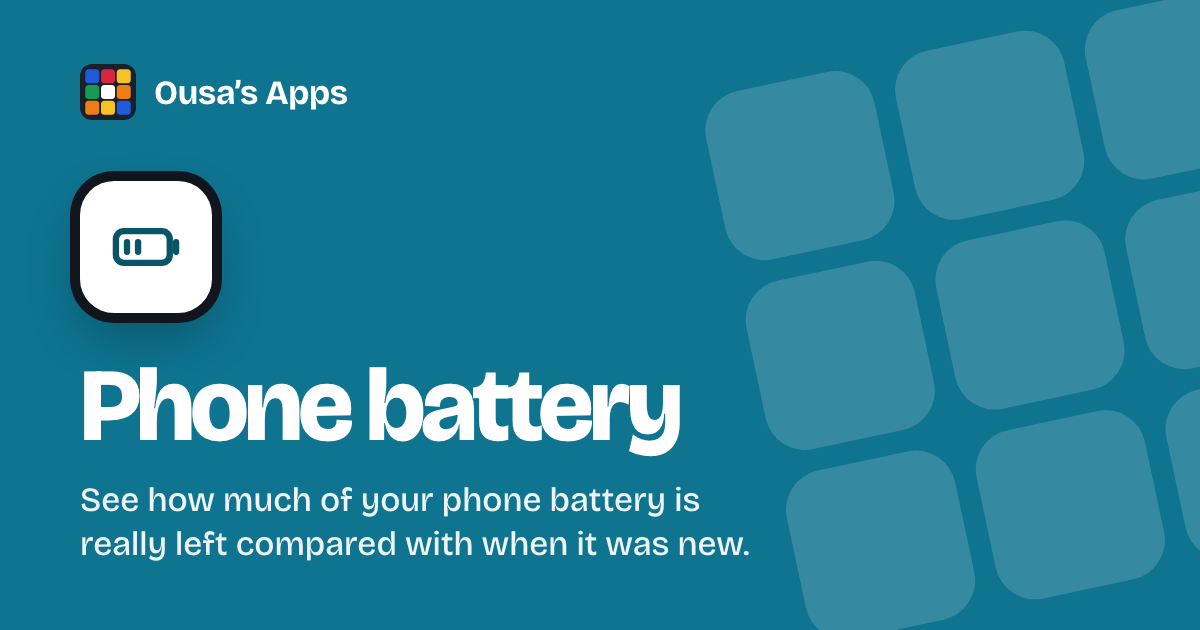
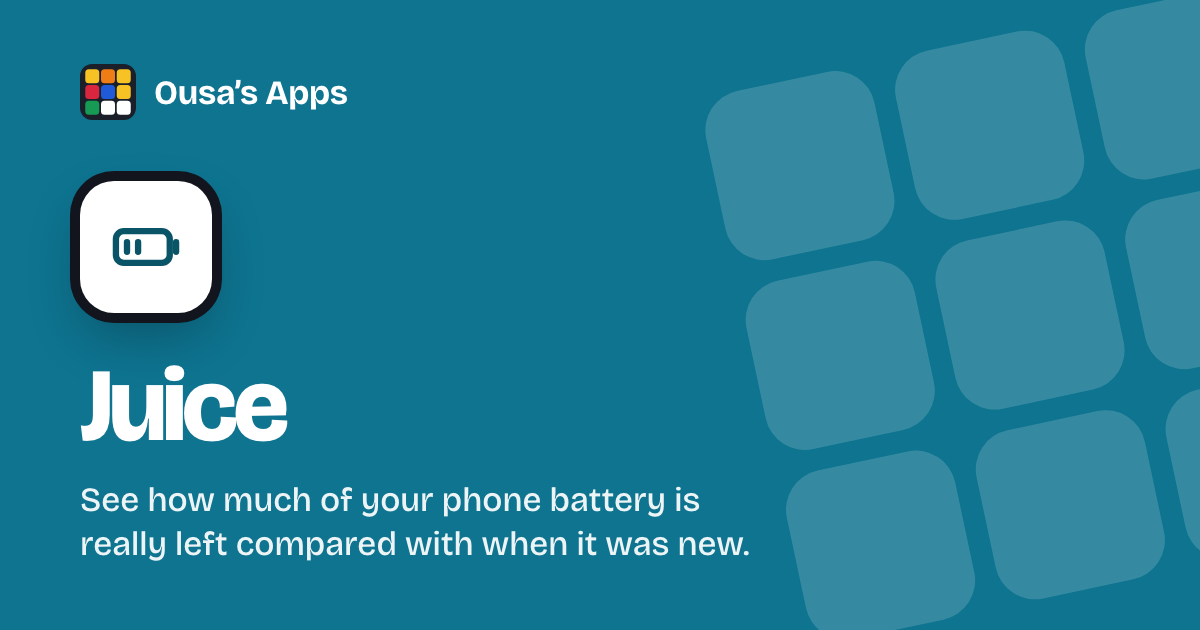
Lead each page's SEO title with the app's new name, and redraw the share images

Changed region(s): [[0.0617, 0.573, 0.5858, 0.7238], [0.0617, 0.0905, 0.1233, 0.181]]

diff --git a/app/utils/tools.ts b/app/utils/tools.ts
@@ -41,7 +41,7 @@ export const TOOLS: Tool[] = [
     summary: 'Turn a link or text into a QR code you can download.',
     color: 'var(--blue)',
     icon: 'qr',
-    seoTitle: 'Free QR code generator with logo',
+    seoTitle: 'Scan Me: free QR code generator with logo',
     description: 'Make a QR code for any link or text, add your logo, colours and a frame, check it scans, then download it as PNG or SVG. Free, no sign-up.'
   },
   {
@@ -50,7 +50,7 @@ export const TOOLS: Tool[] = [
     summary: 'Check a Cambodian number and see its network.',
     color: 'var(--red)',
     icon: 'phone',
-    seoTitle: 'Cambodian phone number checker',
+    seoTitle: 'Who’s Calling: Cambodian phone number checker',
     description: 'Check any Cambodian phone number: see if it’s Smart, Cellcard, Metfone or a landline, catch missing digits, and format it for WhatsApp or Telegram.',
     demo: true
   },
@@ -61,7 +61,7 @@ export const TOOLS: Tool[] = [
     color: 'var(--orange)',
     buttonColor: 'var(--orange-btn)',
     icon: 'compress',
-    seoTitle: 'Compress images and PDFs in your browser',
+    seoTitle: 'Squeeze: compress images and PDFs in your browser',
     description: 'Make JPG, PNG, WebP and PDF files smaller without uploading them. Keep PDF text sharp or shrink scans, compare before and after, and download.',
     demo: true
   },
@@ -72,7 +72,7 @@ export const TOOLS: Tool[] = [
     color: 'var(--yellow)',
     onColor: '#1b1f2a',
     icon: 'case',
-    seoTitle: 'Text case converter and text compare',
+    seoTitle: 'Wordsmith: text case converter and text compare',
     description: 'Change text to lowercase, UPPERCASE, Title Case or Sentence case, or compare two texts side by side and see every word added, removed or changed.',
     demo: true
   },
@@ -83,7 +83,7 @@ export const TOOLS: Tool[] = [
     color: 'var(--green)',
     buttonColor: 'var(--green-btn)',
     icon: 'password',
-    seoTitle: 'Strong password generator and saver',
+    seoTitle: 'Keyring: strong password generator and saver',
     description: 'Generate strong passwords, see how long they’d take to crack, and save them in an encrypted vault that only you can unlock.'
   },
   {
@@ -93,7 +93,7 @@ export const TOOLS: Tool[] = [
     color: 'var(--teal)',
     buttonColor: 'var(--teal-btn)',
     icon: 'exchange',
-    seoTitle: 'KHR to USD exchange rate calculator',
+    seoTitle: 'Riel Deal: KHR to USD exchange rate calculator',
     description: 'See today’s riel to dollar rate and find out if a money changer’s rate makes you gain or lose money on your exchange.'
   },
   {
@@ -103,7 +103,7 @@ export const TOOLS: Tool[] = [
     color: 'var(--plum)',
     icon: 'things',
     group: 'Life',
-    seoTitle: 'Things I own: track what your stuff is worth',
+    seoTitle: 'Stash: track what your stuff is worth',
     description: 'Keep a list of your phone, laptop and everything else you own, what you paid, and an estimate of what it’s worth today.',
     demo: true
   },
@@ -115,7 +115,7 @@ export const TOOLS: Tool[] = [
     buttonColor: 'var(--pink-btn)',
     icon: 'eat',
     group: 'Life',
-    seoTitle: 'What should I eat? Food picker',
+    seoTitle: 'Hungry? What should I eat? Food picker',
     description: 'Can’t decide what to eat? Swipe through your favourite foods and places until one sounds good, with your own photos.',
     demo: true
   },
@@ -127,7 +127,7 @@ export const TOOLS: Tool[] = [
     buttonColor: 'var(--lime-btn)',
     icon: 'weight',
     group: 'Life',
-    seoTitle: 'Weight tracker with trend chart',
+    seoTitle: 'Scale: weight tracker with trend chart',
     description: 'Log your weight and see the trend over weeks and months on a clear chart, with your progress toward a goal.',
     demo: true
   },
@@ -138,7 +138,7 @@ export const TOOLS: Tool[] = [
     color: '#047857',
     icon: 'budget',
     group: 'Life',
-    seoTitle: 'Budget planner and expense tracker in dollars and riel',
+    seoTitle: 'Wallet: budget planner and expense tracker in dollars and riel',
     description: 'Log daily expenses and income in dollars or riel, set monthly budgets, track recurring bills and savings goals, and see where your money goes.',
     demo: true
   },
@@ -149,7 +149,7 @@ export const TOOLS: Tool[] = [
     color: 'var(--purple)',
     icon: 'countdown',
     group: 'Life',
-    seoTitle: 'Calendar: countdowns, Cambodian holidays, renewals and a clock screen saver',
+    seoTitle: 'Countdown: date countdowns, Cambodian holidays, renewals and a clock screen saver',
     description: 'Count down to birthdays, trips and deadlines, see Cambodian public holidays and what your subscriptions cost and when they renew, plus a full-screen clock.',
     demo: true,
     tabs: [{ to: '/countdown', label: 'Dates' }, { to: '/renewals', label: 'Renewals' }]
@@ -161,7 +161,7 @@ export const TOOLS: Tool[] = [
     color: 'var(--rust)',
     icon: 'bookmarks',
     group: 'Life',
-    seoTitle: 'Bookmark manager with folders',
+    seoTitle: 'Pinboard: bookmark manager with folders',
     description: 'Save links in nested folders with notes, pin the sites you open every day, and import or export your browser bookmarks.',
     demo: true
   },
@@ -172,7 +172,7 @@ export const TOOLS: Tool[] = [
     color: 'var(--sky)',
     icon: 'notes',
     group: 'Life',
-    seoTitle: 'Fast personal notes with folders, checklists and links',
+    seoTitle: 'Jot: fast personal notes with folders, checklists and links',
     description: 'Quick notes and longer ones with checklists, folders, tags, links between notes and version history. Works offline and syncs to your other devices.',
     demo: true
   },
@@ -182,7 +182,7 @@ export const TOOLS: Tool[] = [
     summary: 'See how much of your phone battery is really left compared with when it was new.',
     color: 'var(--cyan)',
     icon: 'battery',
-    seoTitle: 'Phone battery health calculator',
+    seoTitle: 'Juice: phone battery health calculator',
     description: 'See how much of your phone battery is really left: capacity in mAh, wear, and hours of screen time, for iPhone, Samsung, Pixel and more.'
   },
   {
@@ -191,7 +191,7 @@ export const TOOLS: Tool[] = [
     summary: 'Work out what a raise is really worth after Cambodian salary tax.',
     color: 'var(--slate)',
     icon: 'salary',
-    seoTitle: 'Cambodia salary tax and raise calculator',
+    seoTitle: 'Payday: Cambodia salary tax and raise calculator',
     description: 'Work out your take-home pay under Cambodian Tax on Salary, and how much of a raise you really keep after tax, overtime and deductions.'
   },
   {
@@ -200,7 +200,7 @@ export const TOOLS: Tool[] = [
     summary: 'Test your internet download, upload and ping, and see what it’s good for.',
     color: '#a21caf',
     icon: 'speed',
-    seoTitle: 'Internet speed test',
+    seoTitle: 'Ping: internet speed test',
     description: 'Test your internet speed: download, upload, ping and jitter in Mbps, what your connection is good for, and how close you get to your plan.'
   },
   {
@@ -209,7 +209,7 @@ export const TOOLS: Tool[] = [
     summary: 'What you spend on the Claude API, and how much you use Claude Code.',
     color: '#c2410c',
     icon: 'claude',
-    seoTitle: 'Claude API spend and Claude Code usage',
+    seoTitle: 'Tokens: Claude API spend and Claude Code usage',
     description: 'See your Claude API spend and tokens by day and model from Anthropic’s Usage and Cost reports, and your Claude Code sessions, tokens and estimated cost by project.',
     // Nothing of yours is saved here: the Admin key stays in the browser and the logs stay on your computer
     readOnly: true
@@ -222,7 +222,7 @@ export const TOOLS: Tool[] = [
     onColor: '#1b1f2a',
     icon: 'gold',
     group: 'Life',
-    seoTitle: 'Gold price in chi and damlung today',
+    seoTitle: 'Chi: gold price in chi and damlung today',
     description: 'Live gold price per chi, damlung and gram for Cambodia, a gold unit converter, and what your gold purchases are worth now.',
     demo: true
   },
@@ -232,7 +232,7 @@ export const TOOLS: Tool[] = [
     summary: 'Count the days between two dates, add days or working days to one, or work out hours between two times.',
     color: 'var(--brown)',
     icon: 'days',
-    seoTitle: 'Date and time calculator: days between dates, working days and hours',
+    seoTitle: 'Day Math: days between dates, working days and hours',
     description: 'Count the days, weeks and working days between two dates, add days or working days skipping Cambodian holidays, and count hours between two times.'
   },
   {
@@ -241,7 +241,7 @@ export const TOOLS: Tool[] = [
     summary: 'Work in 25-minute focus sessions with short breaks in between.',
     color: '#e11d48',
     icon: 'focus',
-    seoTitle: 'Pomodoro focus timer',
+    seoTitle: 'Tomato: Pomodoro focus timer',
     description: 'A free Pomodoro timer: 25 minutes of focus, then a short break, and a longer one every fourth session. Set your own lengths, with a sound when time is up.'
   },
   {
@@ -251,7 +251,7 @@ export const TOOLS: Tool[] = [
     color: '#4f46e5',
     gradient: 'linear-gradient(135deg, #f43f5e 0%, #8b5cf6 50%, #0ea5e9 100%)',
     icon: 'color',
-    seoTitle: 'Color picker, contrast checker and palette generator',
+    seoTitle: 'Swatch: color picker, contrast checker and palette generator',
     description: 'Pick or paste a colour, copy it as HEX, RGB or HSL, check text contrast against WCAG AA and AAA, make CSS gradients, and get tints and shades to copy.'
   },
   {
